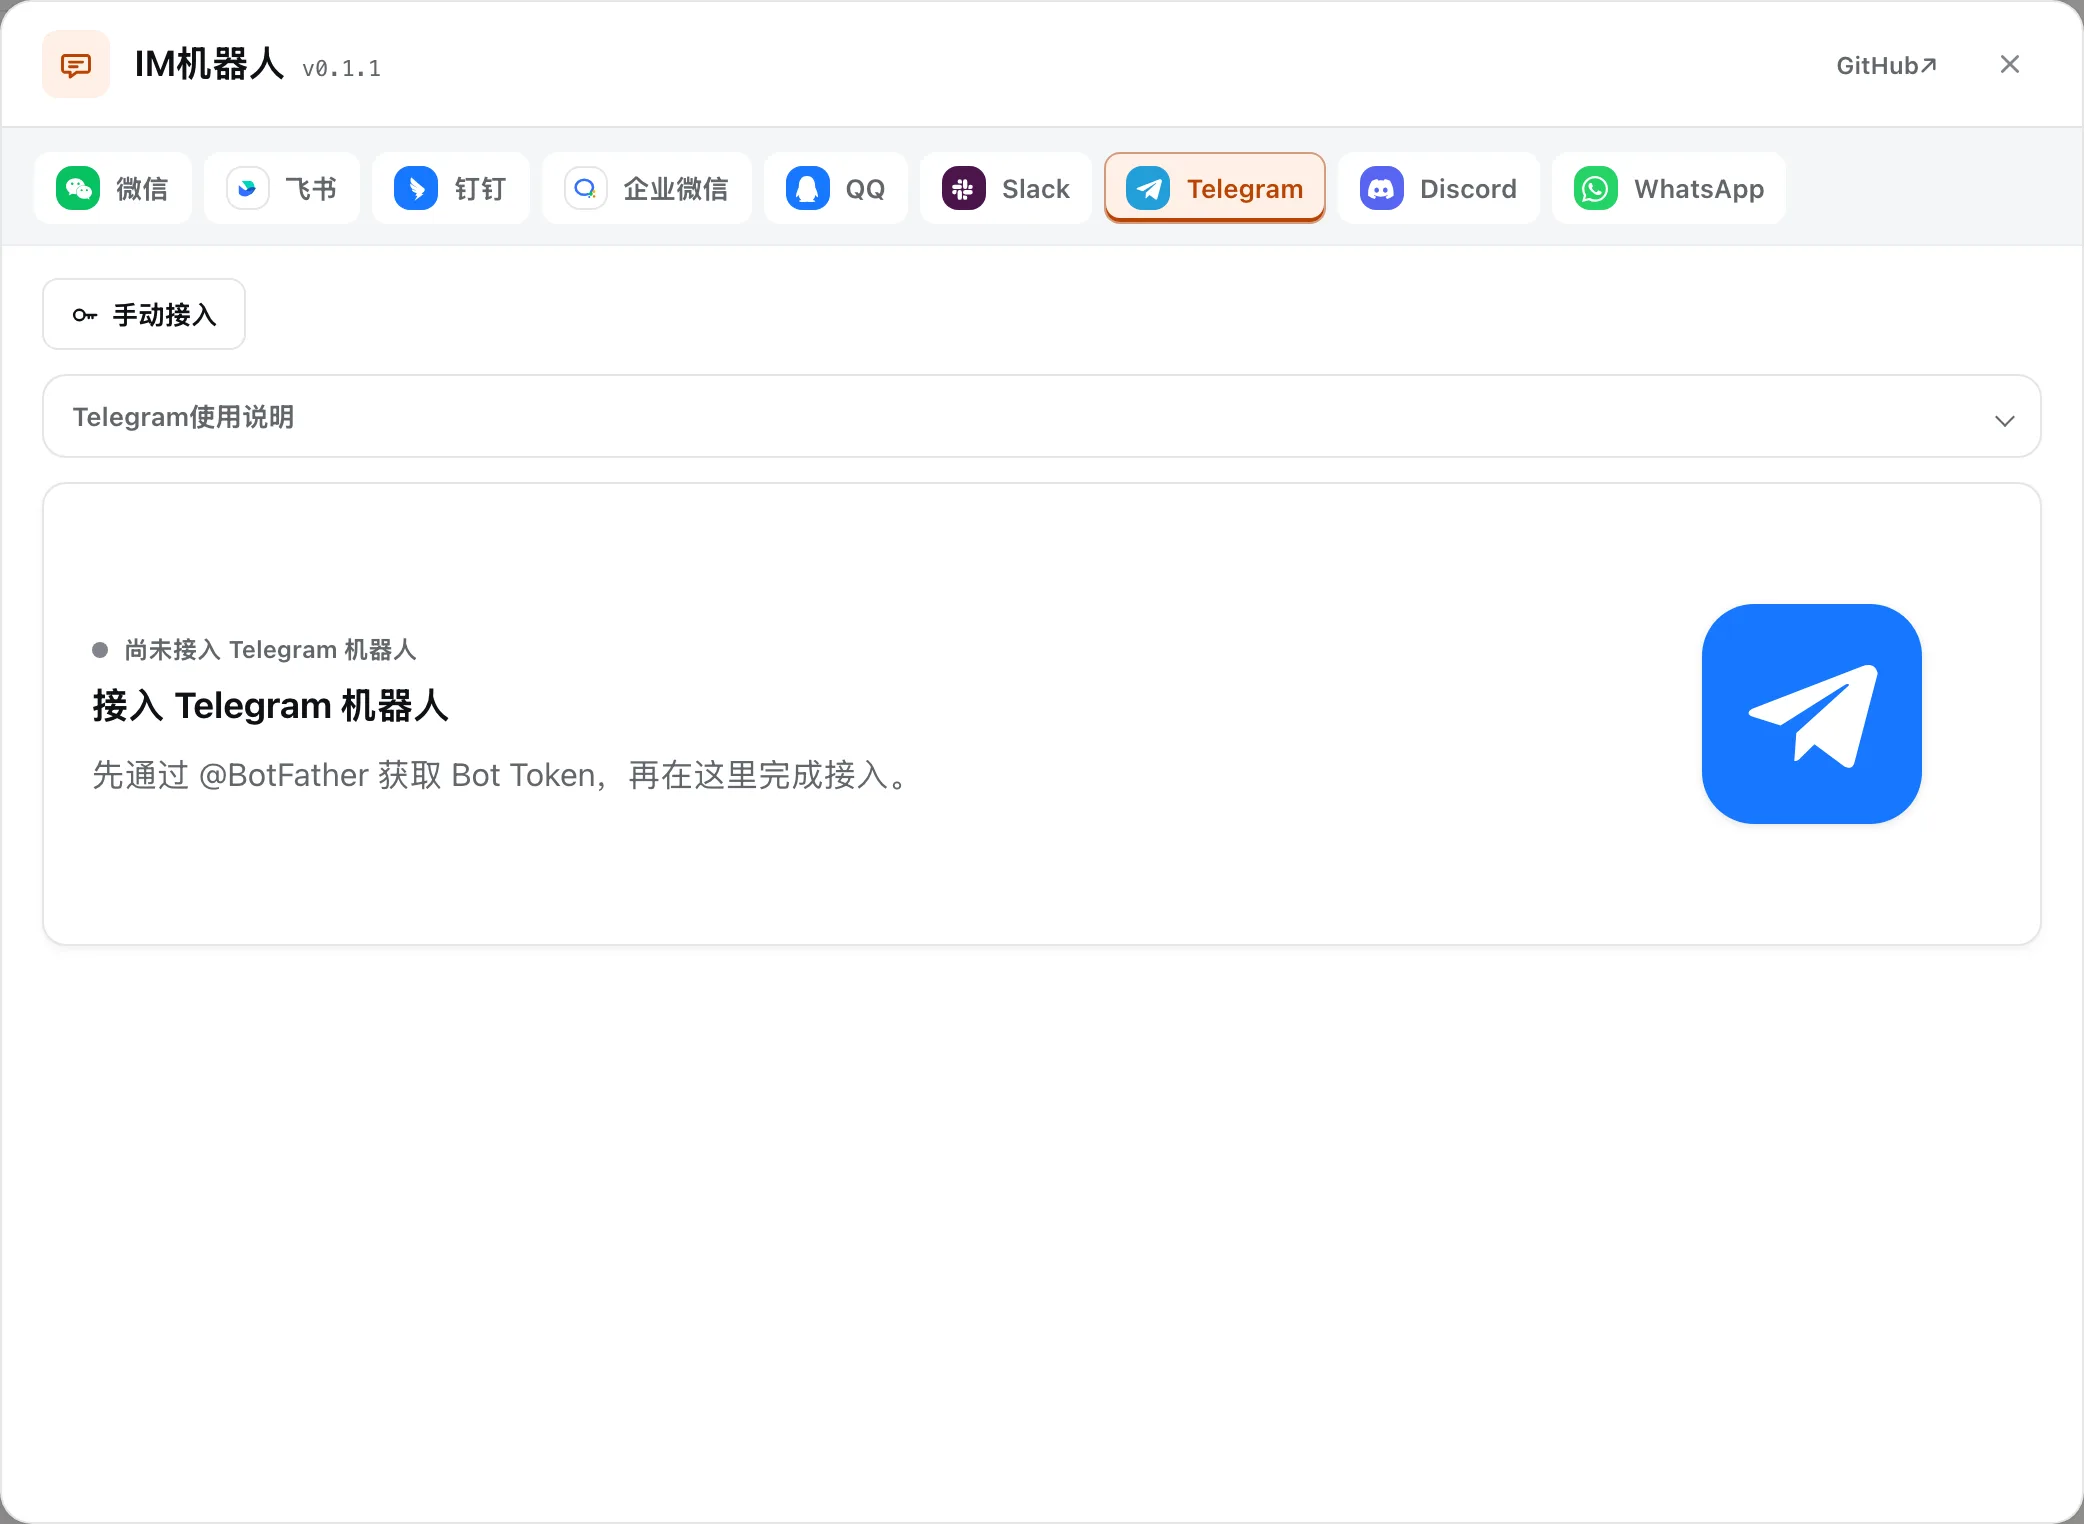
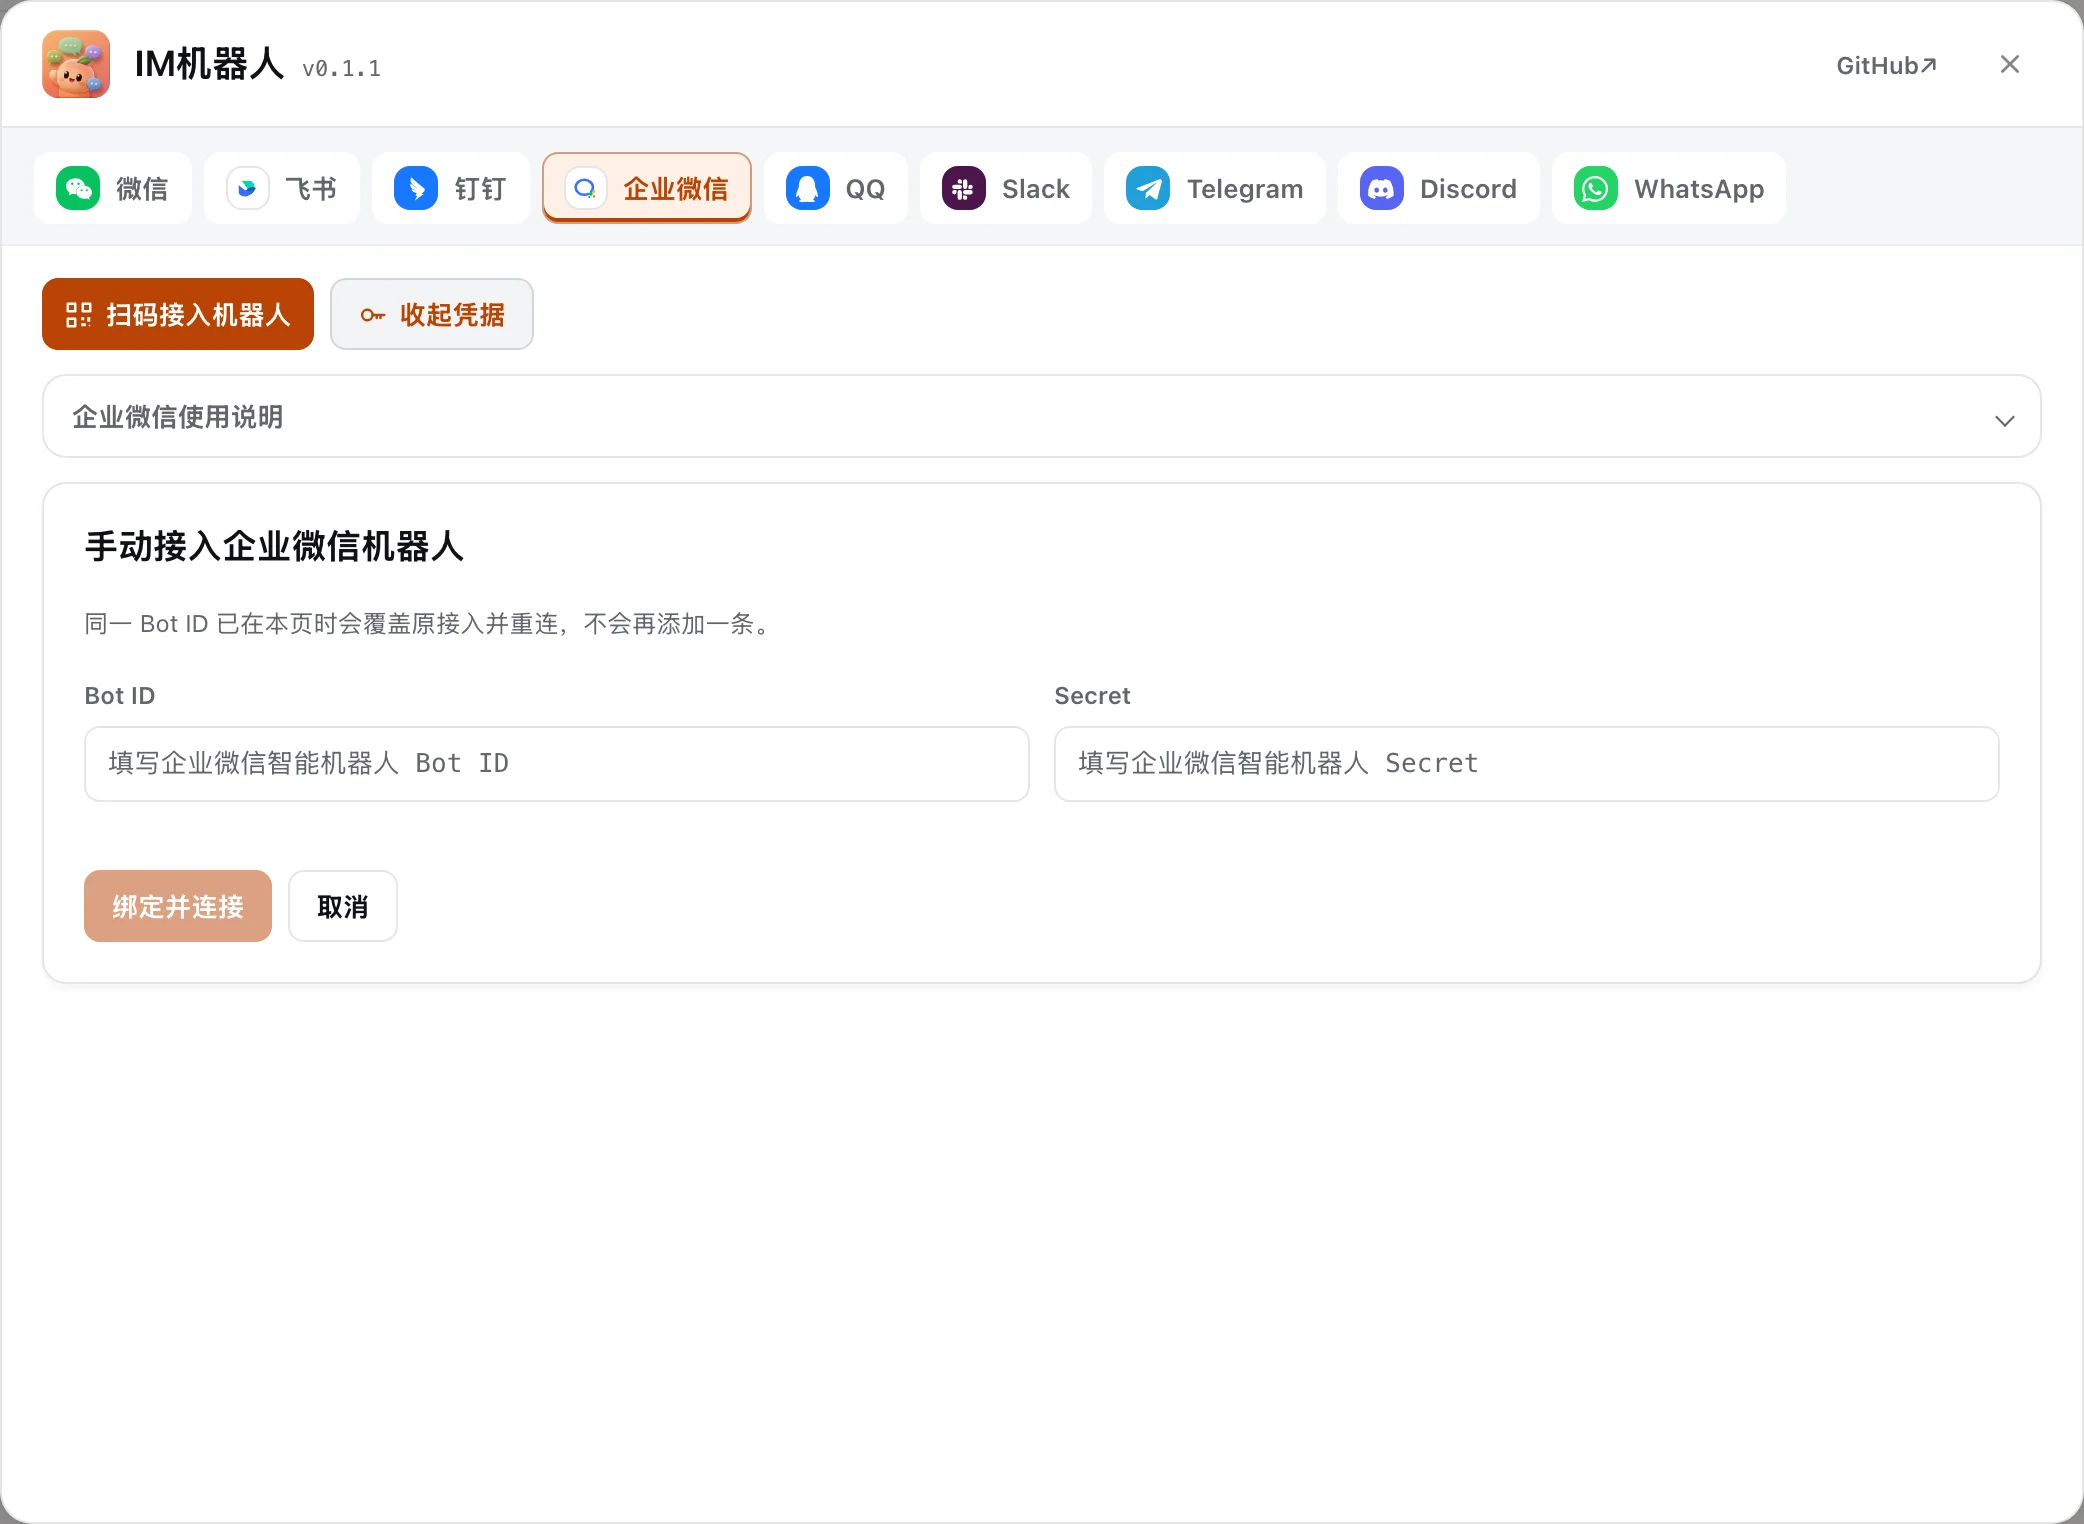
docs(website): show WeCom on the IM landing screenshot
Capture the sandbox IM panel with 企业微信 selected and the empty
credential form. Hide live bot cards so the public site does not leak
sandbox identities.

diff --git a/apps/website/.vitepress/theme/Landing.vue b/apps/website/.vitepress/theme/Landing.vue
@@ -63,7 +63,7 @@ const copy = computed(() =>
         ],
         imTitle: '离开工位也能派活',
         imBody: '在已经在用的聊天软件里 @ 机器人。Agent 读写你电脑上的仓库，结果回到同一个线程——九个渠道，扫码或填凭据即可。',
-        imAlt: 'IM 渠道中心：九个聊天渠道，Telegram 未连接的空状态',
+        imAlt: 'IM 渠道中心：九个聊天渠道，企业微信选中的手动接入空表单',
         modelsTitle: '模型不绑死一家',
         modelsBody: '订阅与密钥同一设置页。聊天选择器只显示你启用的模型。可选智能选择，默认手动，不会在你关掉时自己换模型。',
         modelsAlt: '设置 → 模型：智能选择默认关闭，已接入服务商，DeepSeek 模型已勾选',
@@ -110,7 +110,7 @@ const copy = computed(() =>
         ],
         imTitle: 'Dispatch from your phone',
         imBody: 'Ping the bot in the apps you already live in. The agent reads and writes your local repos; answers land in the same thread. Nine channels — scan or paste credentials.',
-        imAlt: 'IM channel hub: nine chat channels with Telegram selected, unconnected empty state',
+        imAlt: 'IM channel hub: nine chat channels with WeCom selected, empty credential form',
         modelsTitle: 'Not locked to one vendor',
         modelsBody: 'Subscriptions and API keys on one settings page. The chat picker stays short — only what you enable. Optional smart routing; it stays manual until you turn it on.',
         modelsAlt: 'Settings → Models: smart routing off by default, connected vendors, DeepSeek models checked',

diff --git a/plugins/im/README.md b/plugins/im/README.md
@@ -54,7 +54,7 @@ Then open **IM bots** in the sidebar, directly below **New Session** (and below 
 
 | Channel hub | Credential-free setup |
 | :-- | :-- |
-| ![IM channel hub: nine chat channels, pick one and connect a bot](docs/channels-overview.webp) | ![Manual bot setup: paste a Bot Token, nothing else stored in the client](docs/add-bot.webp) |
+| ![IM channel hub: WeCom selected, empty credential form](docs/channels-overview.webp) | ![Manual bot setup: paste a Bot Token, nothing else stored in the client](docs/add-bot.webp) |
 
 ## Channels
 

diff --git a/apps/website/guide/plugins.md b/apps/website/guide/plugins.md
@@ -23,7 +23,7 @@ Vendors that are not connected yet live behind **Add provider**.
 
 Connect the local Harness to the chat apps you already use: WeChat, WeCom, Feishu, DingTalk, Slack, and more — nine channels in total. Send a message from your phone; the agent works on your machine and replies in the same chat.
 
-![Sidebar → IM bots](/imbot.webp)
+![Sidebar → IM bots: WeCom empty credential form](/imbot.webp)
 
 Scan a QR code, paste an App Manifest, or enter bot credentials — each channel documents its own onboarding.
 

diff --git a/README.md b/README.md
@@ -86,7 +86,7 @@ Add provider lists every vendor a user can still sign in to or key in.
 
 Nine chat channels sit in the top tab strip; the shown Telegram empty state leads straight into manual token setup.
 
-![IM channel hub: nine chat channels](plugins/im/docs/channels-overview.webp)
+![IM channel hub: WeCom selected, empty credential form](plugins/im/docs/channels-overview.webp)
 
 Telegram manual setup asks for a Bot Token; credentials stay in the Host credential store, not the client bundle.
 

diff --git a/plugins/im/README.zh.md b/plugins/im/README.zh.md
@@ -54,7 +54,7 @@ dsh web
 
 | 渠道总览 | 无凭据的接入流程 |
 | :-- | :-- |
-| ![IM 渠道面板：九个聊天渠道，选一个接入机器人](docs/channels-overview.webp) | ![手动接入：只粘贴 Bot Token，客户端不存任何密钥](docs/add-bot.webp) |
+| ![IM 渠道面板：企业微信选中，手动接入空表单](docs/channels-overview.webp) | ![手动接入：只粘贴 Bot Token，客户端不存任何密钥](docs/add-bot.webp) |
 
 ## 渠道
 

diff --git a/apps/website/zh/guide/plugins.md b/apps/website/zh/guide/plugins.md
@@ -23,7 +23,7 @@
 
 把本机 Harness 接到你已经在用的聊天软件：微信、企业微信、飞书、钉钉、Slack 等共九个渠道。在手机上发条消息，Agent 在你的电脑上干活，结果回到同一个会话里。
 
-![侧边栏 → IM bots](/imbot.webp)
+![侧边栏 → IM机器人：企业微信手动接入](/imbot.webp)
 
 扫码、粘贴 App Manifest 或填机器人凭据 —— 每个渠道都有自己的接入说明。
 
